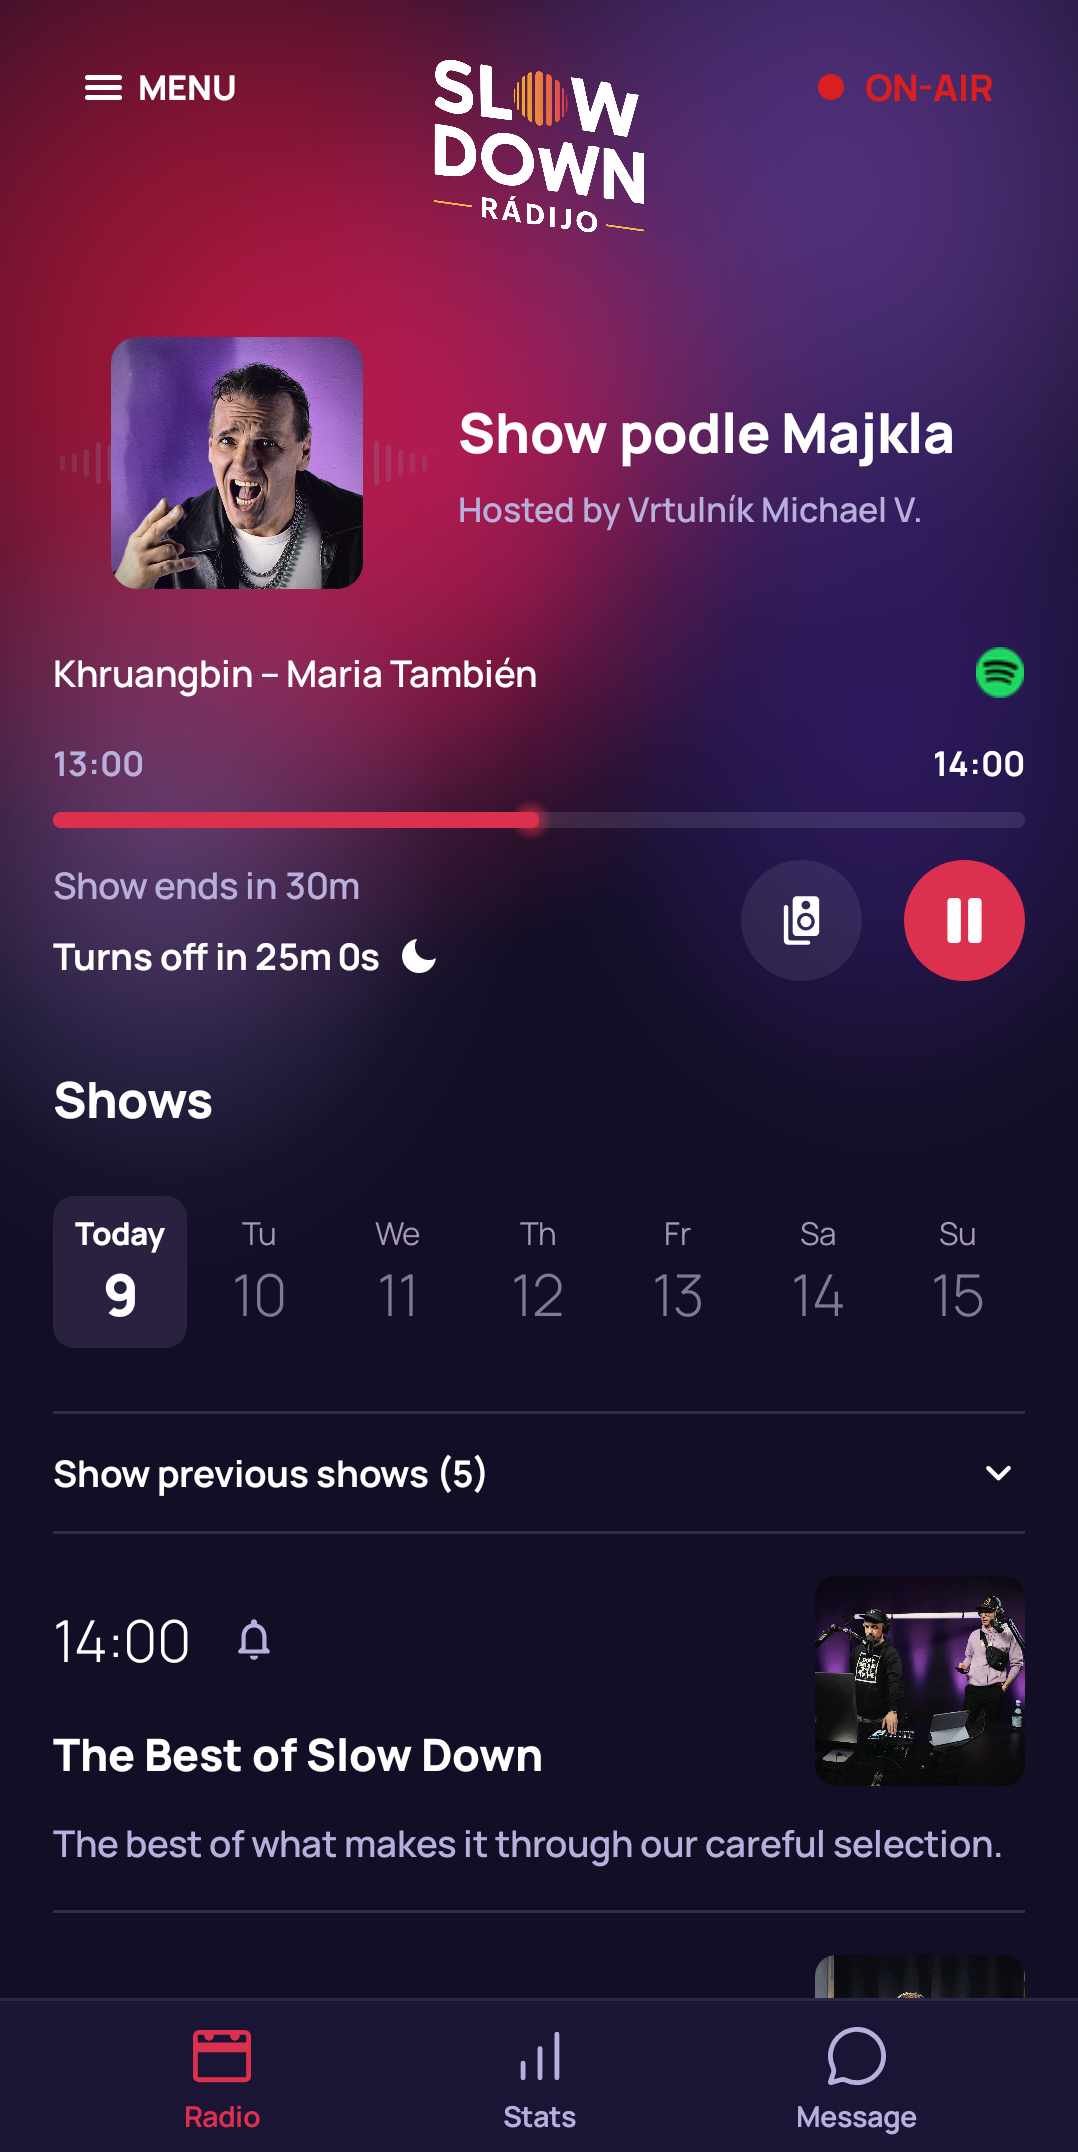
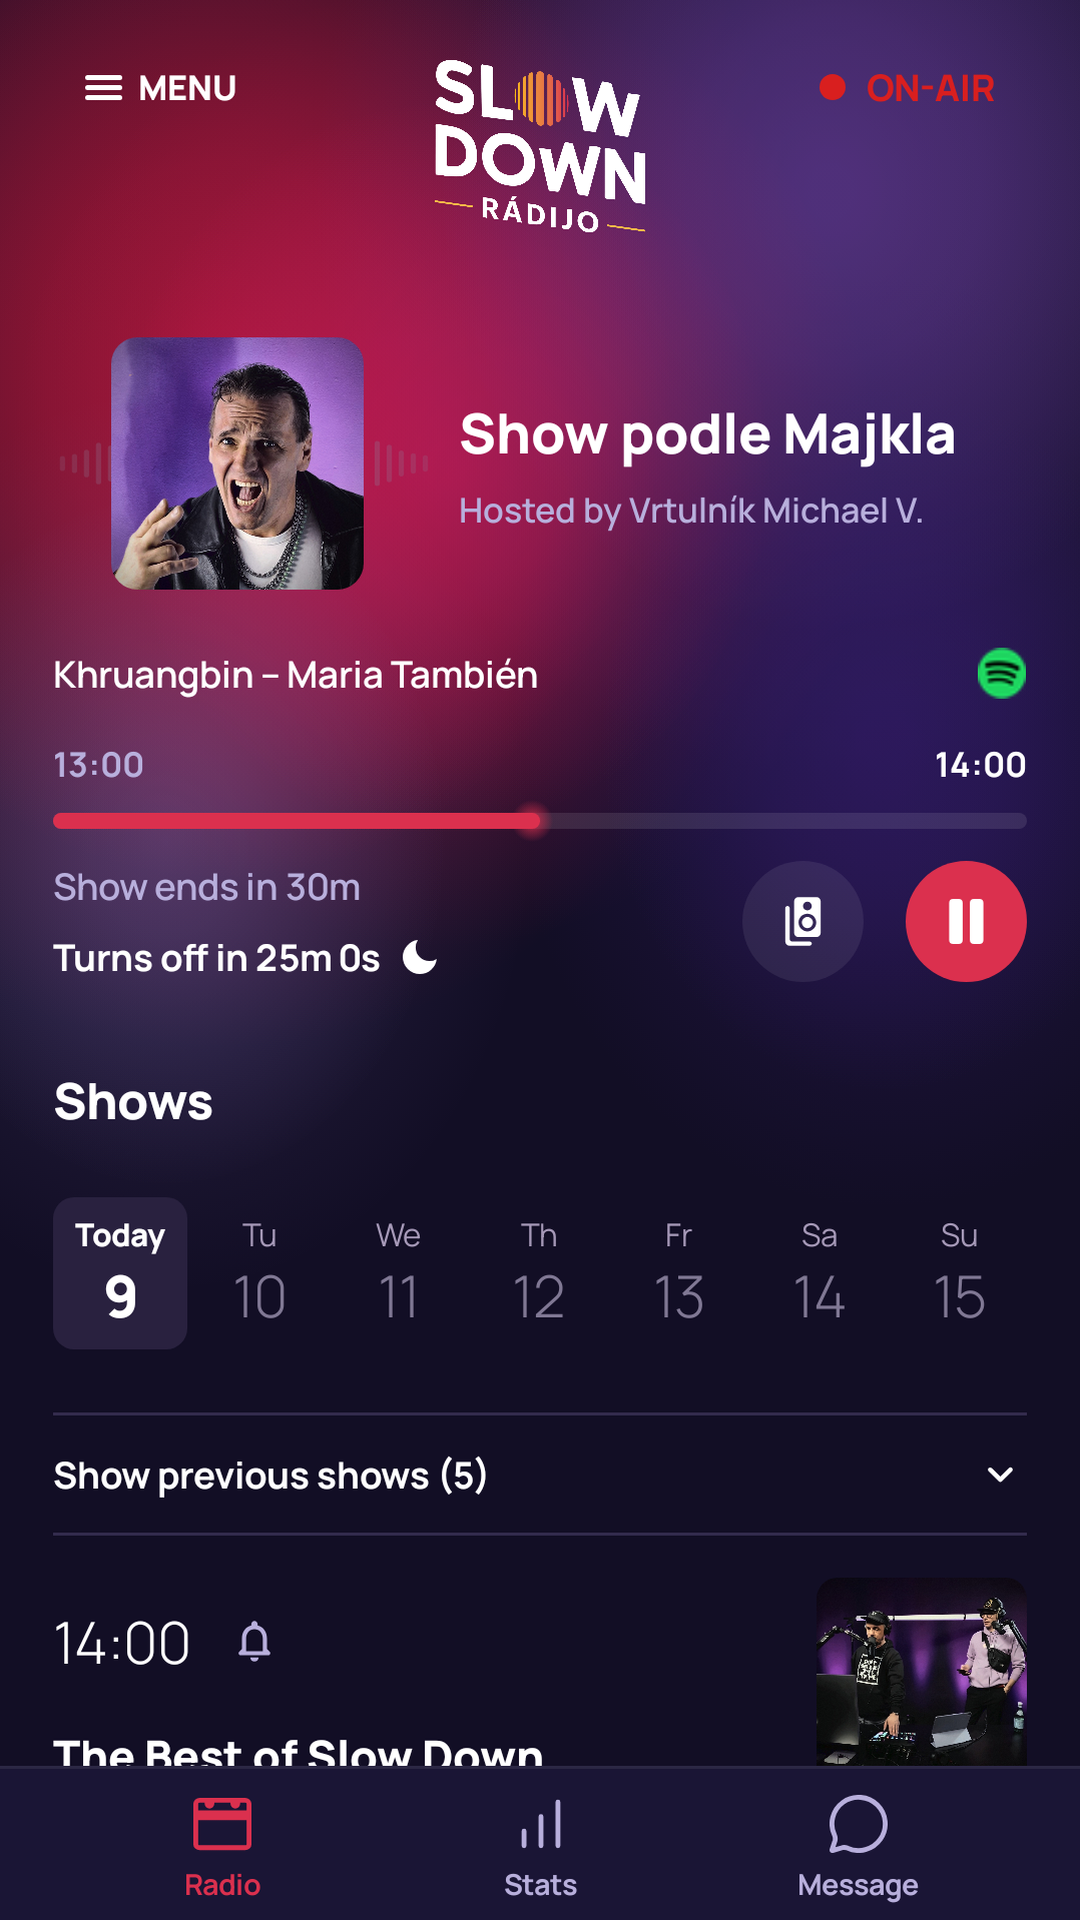
Google Play screenshots at exactly 1080 x 1920 (Play asks for 9:16)
Claude-Session: https://claude.ai/code/session_01QVesfCvWCUEYGTZykSWJrJ

diff --git a/android/app/src/test/kotlin/cz/slowdownradijo/app/ui/StoreScreenshotTest.kt b/android/app/src/test/kotlin/cz/slowdownradijo/app/ui/StoreScreenshotTest.kt
@@ -50,13 +50,14 @@ import java.time.LocalDate
 /**
  * Phone screenshots for the Google Play listing (`docs/google-play.md`),
  * in Czech and English, written to `android/store/screenshots/`. A
- * Pixel 7 cut to 1079 x 2152: Play takes no screenshot longer than 2:1.
+ * Pixel 7's width at 9:16, which is all Play takes; tools/android/store_graphics.py
+ * then brings them to exactly 1080 x 1920.
  *
  *     ./gradlew :app:testDebugUnitTest --tests '*StoreScreenshotTest*' -Proborazzi.test.record=true
  */
 @RunWith(AndroidJUnit4::class)
 @GraphicsMode(GraphicsMode.Mode.NATIVE)
-@Config(qualifiers = "w411dp-h820dp-normal-long-notround-any-420dpi-keyshidden-nonav")
+@Config(qualifiers = "w411dp-h731dp-normal-notlong-notround-any-420dpi-keyshidden-nonav")
 class StoreScreenshotTest {
     @get:Rule val compose = createComposeRule()
 

diff --git a/tools/android/store_graphics.py b/tools/android/store_graphics.py
@@ -6,7 +6,8 @@
 Writes android/store/icon-512.png (the app icon, 512 x 512) and
 android/store/feature-graphic.png (1024 x 500: the logo over the home
 screen's dark sky with its red and purple clouds, and the genres).
-The phone screenshots come from StoreScreenshotTest.
+The phone screenshots come from StoreScreenshotTest (about 1078 x 1918);
+this brings them to exactly 1080 x 1920, the 9:16 that Play requires.
 """
 
 from pathlib import Path
@@ -56,8 +57,16 @@ def feature_graphic() -> None:
     image.convert("RGB").save(OUT / "feature-graphic.png")
 
 
+def screenshots() -> None:
+    for path in sorted(OUT.glob("screenshots/*/*.png")):
+        shot = Image.open(path).convert("RGB")
+        if shot.size != (1080, 1920):
+            shot.resize((1080, 1920), Image.LANCZOS).save(path)
+
+
 if __name__ == "__main__":
     OUT.mkdir(parents=True, exist_ok=True)
     icon()
     feature_graphic()
+    screenshots()
     print("written:", *(p.relative_to(ROOT) for p in sorted(OUT.glob("*.png"))))

diff --git a/docs/google-play.md b/docs/google-play.md
@@ -11,7 +11,7 @@ Grafika je v `android/store/`:
 |---|---|---|
 | `icon-512.png` | Ikona aplikace (512 × 512) | `python3 tools/android/store_graphics.py` |
 | `feature-graphic.png` | Úvodní grafika (1024 × 500) | totéž |
-| `screenshots/cs/*.png`, `screenshots/en/*.png` | Snímky obrazovky telefonu (1079 × 2152), v pořadí podle čísla | `StoreScreenshotTest` (`-Proborazzi.test.record=true`) |
+| `screenshots/cs/*.png`, `screenshots/en/*.png` | Snímky obrazovky telefonu (1080 × 1920, Play chce přesně 9 : 16), v pořadí podle čísla | `StoreScreenshotTest` (`-Proborazzi.test.record=true`), pak `store_graphics.py` |
 
 ## Nastavení obchodu (Růst → Nastavení obchodu)
 
